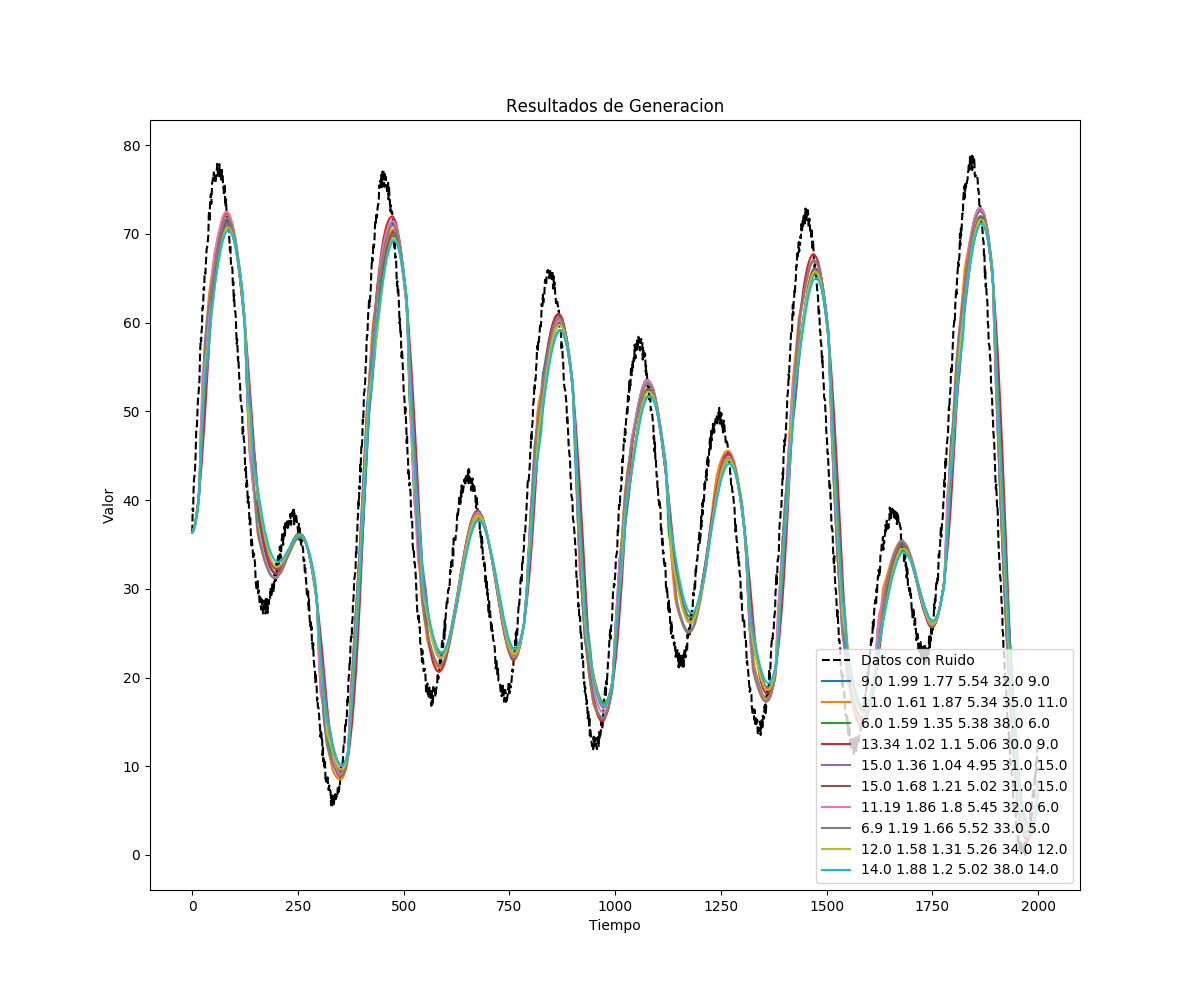
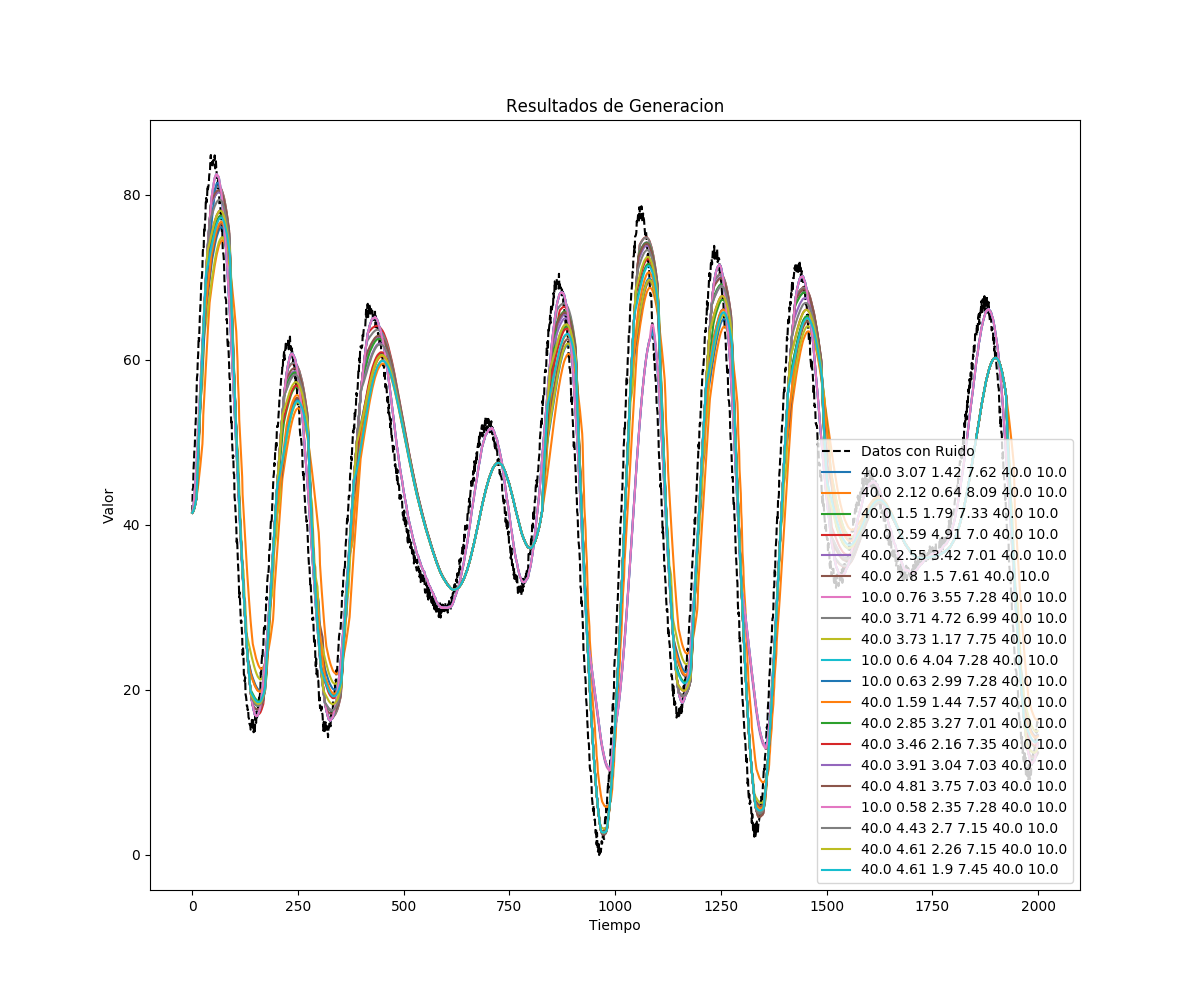
Falta funciones de ploteo

Changed region(s): [[0.1542, 0.155, 0.8942, 0.868], [0.0925, 0.496, 0.1233, 0.527]]

diff --git a/TP/main.py b/TP/main.py
@@ -25,17 +25,16 @@ salida_filtro = []              #Array de las salidas del filtro con cada set de
 evol_error = []                 #Evolucion del error en funcion de las generaciones
 
 # Parametros del DEWMA -------------------------------------------------------------------------------------------------------------------
-
-lim_gamma = [1, 2]
-lim_alfa = [1, 2]
+lim_gamma = [0.5, 5]
+lim_alfa = [0.5, 5]
 lim_sigma = [1, 10]             #Actualmente no se utiliza y el filtro calcula su sigma propio
-lim_Nmax = [30, 40]             #Hay que revisar estos limites porque el filtro DEWMA ya hace una estimacion de N usando estos valores
-lim_Nmin = [5, 15]              #Quiza estos parametros hay que incluirlos en los limites de arriba, para pensar
+lim_Nmax = [40, 40]             #Hay que revisar estos limites porque el filtro DEWMA ya hace una estimacion de N usando estos valores
+lim_Nmin = [10, 10]              #Quiza estos parametros hay que incluirlos en los limites de arriba, para pensar
 lim_N = [lim_Nmin[0], lim_Nmax[1]]
 
 # Parametros del GA ----------------------------------------------------------------------------------------------------------------------
-nGen = 10                      #Generaciones a correr
-pDim = 10                      #Tamaño de la poblacion
+nGen = 50                      #Generaciones a correr
+pDim = 20                      #Tamaño de la poblacion
 pMuta = 5                       #Probabilidad de que un individuo mute expresade en %
 dMuta = 50                      #delta de Muta, osea cuanto puede variar en la mutacion expresado en %
 indx_mut = 0                    #Indice de la mutacion (cuanto puede variar el valor original) Si es 0 el valor del parametro se asigna nuevo
@@ -46,7 +45,7 @@ Cant_param=6
 
 # Parametros de la señal de prueba -------------------------------------------------------------------------------------------------------
 amp = [20, 10, 15]              #Amplitudes de cada tono
-per = [200, 420, 350]              #Periodos de cada tono
+per = [200, 350, 170]              #Periodos de cada tono
 fase = [0, 0, 1.5]              #Fases de cada tono
 muestras = 2000                  #Tamaño de la señal total
 
@@ -167,7 +166,7 @@ for gen in range(nGen):
     evol_error.append(error_promedio_gen)
 
     archivo = "Evolucion/Gen" + str(gen) + ".png"
-    plot_filtrados(poblacion_actual, datos_orig, salida_filtro, archivo)
+    plot_filtrados(poblacion_actual, datos_orig, salida_filtro, gen)
 
 
     #Asignacion de puntajes

diff --git a/TP/fun_jose.py b/TP/fun_jose.py
@@ -79,8 +79,8 @@ def FiltroDEWMA(param, data):
     gama = param[1]
     alfa = param[2]
     sigma = param[3]
-    Nmax = param[4]
-    Nmin = param[5]
+    Nmax = 40
+    Nmin = 10
 
     variable = data
 
@@ -89,18 +89,24 @@ def FiltroDEWMA(param, data):
     Ns = [N]
     for j in range(1,len(variable)):
         sigma = 2 * (DEWMA[j-1])**(1/2)
+        #sigma = sigma / (2 * (DEWMA[j-1])**(1/2))
         error = abs(variable[j]-DEWMA[j-1])
         if error > sigma:
-            N = N/gama
+            N = round(N/gama)
             if N < Nmin:
                 N = Nmin
         if error < sigma/alfa: 
-            N = N * gama
+            N = round(N * gama)
             if N > Nmax:
                 N = Nmax
+        if N < Nmin:
+            N = Nmin
+        elif N > Nmax:
+            N = Nmax
         Ns.append(N)
         a = DEWMA[j-1] +(variable[j]-DEWMA[j-1])/N
         DEWMA = np.append( DEWMA , np.array(a))
+
 
     param[0] = N
     param[1] = gama
@@ -122,8 +128,10 @@ def run_test(param, data):
 
 
 
-def plot_filtrados(pobl, orig, filtr, archivo=None):
+def plot_filtrados(pobl, orig, filtr, gen=None):
     #Funcion auxiliar para ploteo de las salidas de toda la poblacion del filtro DEWMA
+
+    archivo = "Evolucion/Gen" + str(gen) + ".png"
     fig = plt.figure(figsize=(12,10))
     plt.ylabel('Valor')
     plt.xlabel('Tiempo')
